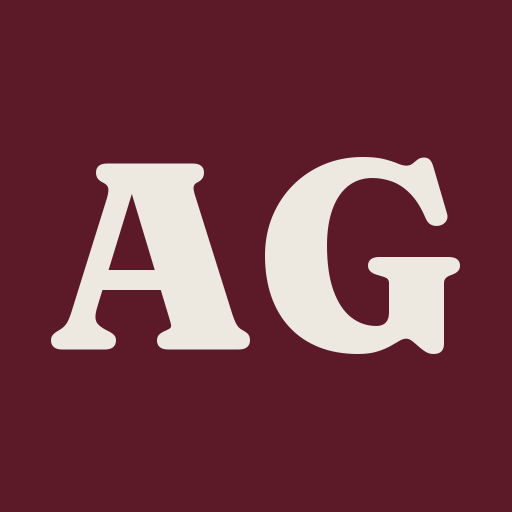
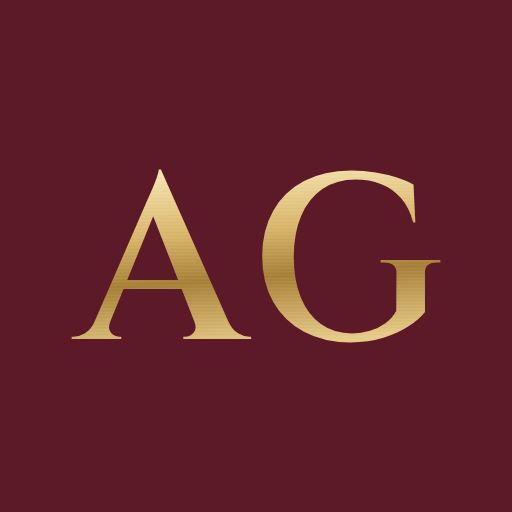
Oro cepillado y AG dorado en toda la web (Almudena, 14/10/2026)
Botones de la calculadora, página de enlaces y teleprompter en oro cepillado
en vez de amarillo flúor; el sello AG pasa a AG dorado en Cinzel sobre el
fondo (oro viejo sobre la cabecera clara de la calculadora); favicon e
iconos con sello burdeos y AG dorado; imagen de enlace nueva con el AG
dorado e «IA para empresas».

Claude-Session: https://claude.ai/code/session_017DikgApCRu2u791NJq6ev1

Changed region(s): [[0.5, 0.2812, 0.9062, 0.7188], [0.0938, 0.3125, 0.5, 0.6875]]

diff --git a/enlaces/index.html b/enlaces/index.html
@@ -23,7 +23,9 @@
   @font-face { font-family: 'Work Sans'; src: url('../fuentes/WorkSans.ttf') format('truetype'); font-weight: 100 900; font-display: swap; }
   @font-face { font-family: 'IBM Plex Mono'; src: url('../fuentes/IBMPlexMono-Medium.ttf') format('truetype'); font-weight: 500; font-display: swap; }
   :root { --burdeos: #5C1A28; --rosa: #D9A9B0; --oliva: #565C34; --tinta: #141210; --hueso: #EDE9E0; --papel: #F6F3EC; --texto2: #4A453D; --gris: #6E675C;
-          --linea: rgba(20, 18, 16, 0.14); --amarillo: #F5FF00; }
+          --linea: rgba(20, 18, 16, 0.14); 
+          --oro: #C9A253; --oro-claro: #D8B568;
+    --oro-cepillado: repeating-linear-gradient(0deg, rgba(255,255,255,.07) 0 1px, transparent 1px 2px, rgba(70,45,10,.05) 2px 3px), linear-gradient(115deg, #A47C35 0%, #C9A458 22%, #E6CC8C 42%, #F1DFAA 50%, #D9B871 64%, #B48D42 84%, #CFAF68 100%); }
   * { box-sizing: border-box; }
   body { margin: 0; background: var(--hueso); color: var(--tinta); font: 16px/1.5 'Work Sans', system-ui, sans-serif; }
   a { color: inherit; text-decoration: none; }
@@ -38,8 +40,8 @@
   .grupo { display: grid; gap: 12px; margin-bottom: 28px; }
   .grupo > .label { color: var(--gris); margin-bottom: 2px; }
   .btn { display: flex; align-items: center; justify-content: center; min-height: 56px; padding: 0 18px; border-radius: 2px; font: 500 13px/1.2 'IBM Plex Mono', monospace; letter-spacing: 0.08em; text-transform: uppercase; text-align: center; }
-  .btn-calc { background: var(--amarillo); color: var(--tinta); border: 1.5px solid var(--tinta); box-shadow: 4px 4px 0 var(--tinta); font-weight: 600; }
-  .btn-calc:hover { background: #FBFF66; }
+  .btn-calc { background: var(--oro-cepillado); color: var(--tinta); border: 1px solid #7E5F25; box-shadow: 0 1px 0 rgba(255,255,255,.35) inset, 0 6px 18px rgba(0,0,0,.28); font-weight: 600; }
+  .btn-calc:hover { filter: brightness(1.06); }
   .btn-burdeos { background: var(--burdeos); color: var(--hueso); }
   .nota { font: 500 10.5px 'IBM Plex Mono', monospace; letter-spacing: 0.1em; text-transform: uppercase; color: var(--gris); text-align: center; }
   .ficha { display: grid; grid-template-columns: 40px 1fr auto; gap: 14px; align-items: center; background: #fff; border: 1px solid var(--linea); border-radius: 2px; padding: 12px 16px; transition: border-color .15s; }
@@ -54,14 +56,14 @@
 
   body { background: var(--burdeos); color: var(--hueso); }
   main { padding: 28px 0 32px; max-width: 480px; position: relative; overflow: hidden; }
-  main:before { content: "AG"; position: absolute; right: -40px; top: 60px; font: 600 420px/1 'Fraunces', serif; color: rgba(237,233,224,.07); pointer-events: none; }
-  .cab { position: relative; background: var(--tinta); border-bottom: 4px solid var(--amarillo); }
+  main:before { content: ""; position: absolute; right: -60px; top: 80px; width: 640px; height: 305px; background: url('/img/ag-oro.svg') no-repeat center / contain; opacity: .08; pointer-events: none; }
+  .cab { position: relative; background: var(--tinta); border-bottom: 4px solid var(--oro); }
   .marco { position: relative; max-width: 640px; height: 470px; margin: 0 auto; overflow: hidden; }
   .cab img { position: absolute; inset: 0; width: 100%; height: 100%; border-radius: 0; border: 0; box-shadow: none; object-fit: cover; object-position: 60% 15%; margin: 0; }
   .marco:after { content: ""; position: absolute; inset: 0; background: linear-gradient(180deg, rgba(20,18,16,0) 40%, rgba(20,18,16,.92) 85%); }
   .cab .txt { position: absolute; left: 20px; right: 20px; bottom: 24px; z-index: 2; max-width: 448px; }
   .cab h1 { font-size: 46px; line-height: .95; margin-bottom: 16px; color: var(--hueso); }
-  .cab .label { display: inline-block; background: var(--amarillo); color: var(--tinta); padding: 7px 12px; transform: rotate(-2deg); }
+  .cab .label { display: inline-block; background: var(--oro-cepillado); color: var(--tinta); padding: 7px 12px; transform: rotate(-2deg); }
   @media (min-width: 641px) {
     .marco { height: 560px; }
     .cab img { -webkit-mask-image: linear-gradient(90deg, transparent, #000 22%, #000 78%, transparent); mask-image: linear-gradient(90deg, transparent, #000 22%, #000 78%, transparent); }
@@ -71,14 +73,14 @@
   .btn-linea:hover { background: rgba(237,233,224,.08); }
   .cab p.sub { color: #E6DFD3; margin-top: 14px; }
   .grupo { padding: 0 16px; position: relative; }
-  .grupo > .label { color: var(--amarillo); }
+  .grupo > .label { color: var(--oro-claro); }
   .nota { color: var(--rosa); }
   .btn-burdeos { background: var(--hueso); color: var(--burdeos); font-weight: 600; }
   .ficha { background: rgba(237,233,224,.08); border-color: rgba(237,233,224,.22); color: var(--hueso); }
-  .ficha:hover { border-color: var(--amarillo); }
+  .ficha:hover { border-color: var(--oro); }
   .ficha small { color: #CFC0C3; }
-  .ico { background: var(--amarillo); color: var(--tinta); }
-  .ir { color: var(--amarillo); }
+  .ico { background: var(--oro-cepillado); color: var(--tinta); }
+  .ir { color: var(--oro-claro); }
   footer { margin: 0 16px; color: #CFC0C3; border-color: rgba(237,233,224,.22); position: relative; }
 </style>
 </head>

diff --git a/grabar/index.html b/grabar/index.html
@@ -12,7 +12,7 @@
    Pega el texto, graba con la cámara del móvil mientras el texto sube, y guarda el vídeo en el carrete. Nada sale del móvil. */
 @font-face{font-family:"Work Sans";src:url(/fuentes/WorkSans.ttf);font-weight:100 900}
 @font-face{font-family:"Fraunces";src:url(/fuentes/Fraunces.ttf);font-weight:100 900}
-:root{--tinta:#141210;--hueso:#EDE9E0;--burdeos:#5C1A28;--amarillo:#F5FF00;--gris:#8a857c}
+:root{--tinta:#141210;--hueso:#EDE9E0;--burdeos:#5C1A28;--oro:#D8B568;--gris:#8a857c}
 *{box-sizing:border-box;-webkit-tap-highlight-color:transparent}
 html,body{margin:0;height:100%;background:var(--tinta);color:var(--hueso);font-family:"Work Sans",system-ui,sans-serif}
 button{font:inherit;cursor:pointer;border:0;border-radius:999px;padding:12px 18px;font-weight:600}
@@ -24,12 +24,12 @@ h1{font-family:"Fraunces",serif;font-weight:600;font-size:28px;margin:8px 0 4px}
 textarea{width:100%;min-height:44vh;border-radius:12px;border:1px solid #3a3530;background:#1d1a17;color:var(--hueso);padding:14px;font:17px/1.5 "Work Sans",sans-serif;resize:vertical}
 .fila{display:flex;gap:12px;align-items:center;flex-wrap:wrap;margin:14px 0}
 .fila label{font-size:14px;color:var(--gris);display:flex;align-items:center;gap:8px;flex:1;min-width:140px}
-.fila input[type=range]{flex:1;min-width:0;accent-color:var(--amarillo)}
+.fila input[type=range]{flex:1;min-width:0;accent-color:var(--oro)}
 @media(max-width:520px){.fila label{flex-basis:100%}}
 .seg{display:flex;background:#1d1a17;border-radius:999px;padding:3px;border:1px solid #3a3530}
 .seg button{background:transparent;color:var(--hueso);padding:8px 14px;font-weight:500}
 .seg button.on{background:var(--hueso);color:var(--tinta)}
-.prim{background:var(--amarillo);color:var(--tinta);width:100%;font-size:18px;padding:16px}
+.prim{background:var(--oro);color:var(--tinta);width:100%;font-size:18px;padding:16px}
 .sec{background:transparent;color:var(--hueso);border:1px solid #4a443d}
 .nota{font-size:13px;color:var(--gris);line-height:1.5}
 /* Teleprompter */
@@ -41,11 +41,11 @@ textarea{width:100%;min-height:44vh;border-radius:12px;border:1px solid #3a3530;
   -webkit-mask-image:linear-gradient(#000 82%,transparent);mask-image:linear-gradient(#000 82%,transparent)}
 #rodillo{font-weight:600;line-height:1.3;color:#fff;will-change:transform}
 #rodillo p{margin:0 0 .8em}
-#rodillo .fin{color:var(--amarillo);font-size:.6em;padding-bottom:60vh}
+#rodillo .fin{color:var(--oro);font-size:.6em;padding-bottom:60vh}
 #guia{position:absolute;left:0;right:0;top:calc(env(safe-area-inset-top) + 18px);height:0;border-top:2px solid rgba(245,255,0,.0)}
 #estado{position:absolute;top:calc(env(safe-area-inset-top) + 6px);right:10px;font-size:12px;padding:4px 10px;border-radius:999px;background:rgba(0,0,0,.55);color:#fff;z-index:3}
 #estado.rec{background:#c81e1e}
-#cuenta{position:absolute;inset:0;display:flex;align-items:center;justify-content:center;font:700 120px "Fraunces",serif;color:var(--amarillo);z-index:4;pointer-events:none}
+#cuenta{position:absolute;inset:0;display:flex;align-items:center;justify-content:center;font:700 120px "Fraunces",serif;color:var(--oro);z-index:4;pointer-events:none}
 #barra{position:absolute;left:0;right:0;bottom:0;padding:12px 12px calc(env(safe-area-inset-bottom) + 14px);display:flex;gap:8px;align-items:center;justify-content:center;flex-wrap:wrap;background:linear-gradient(transparent,rgba(0,0,0,.7));z-index:3}
 #barra .peq{background:rgba(29,26,23,.85);color:#fff;padding:10px 14px;min-width:46px}
 #rec{width:74px;height:74px;border-radius:50%;padding:0;background:#fff;display:flex;align-items:center;justify-content:center;margin:0 6px}
@@ -55,7 +55,7 @@ textarea{width:100%;min-height:44vh;border-radius:12px;border:1px solid #3a3530;
 #hoja h2{font-family:"Fraunces",serif;margin:0 0 6px;font-size:22px}
 #hoja p{margin:0 0 12px;font-size:14px;color:#4a443d}
 #hoja .fila{margin:8px 0 0}
-#hoja .prim{background:var(--tinta);color:var(--amarillo)}
+#hoja .prim{background:var(--tinta);color:var(--oro)}
 #hoja .sec{color:var(--tinta);border-color:#b9b2a6;flex:1}
 </style>
 </head>

diff --git a/index.html b/index.html
@@ -113,7 +113,8 @@
     --gris: #6E675C;
     --linea: rgba(20, 18, 16, 0.14);
     --linea-osc: rgba(237, 233, 224, 0.14);
-    --amarillo: #F5FF00; /* el de los recuadros de los reels: solo botones de la calculadora (08/10/2026) */
+    --oro: #C9A253; /* oro cepillado: botones de la calculadora y AG (Almudena, 14/10/2026) */ --oro-claro: #D8B568;
+    --oro-cepillado: repeating-linear-gradient(0deg, rgba(255,255,255,.07) 0 1px, transparent 1px 2px, rgba(70,45,10,.05) 2px 3px), linear-gradient(115deg, #A47C35 0%, #C9A458 22%, #E6CC8C 42%, #F1DFAA 50%, #D9B871 64%, #B48D42 84%, #CFAF68 100%);
     --max: 1160px;
   }
   * { box-sizing: border-box; }
@@ -131,6 +132,7 @@
 
   /* Sello */
   .sello { width: 40px; height: 40px; border-radius: 2px; display: inline-flex; align-items: center; justify-content: center; font-family: 'Fraunces', Georgia, serif; font-weight: 600; font-size: 18px; flex-shrink: 0; }
+  .sello-ag { display: block; height: 24px; width: auto; flex-shrink: 0; }
   .sello-claro { background: var(--burdeos); color: var(--hueso); }
   .sello-osc { background: var(--hueso); color: var(--burdeos); }
 
@@ -337,11 +339,11 @@
     .sintomas-movil, .ficha-cuerpo-movil { display: block; }
   }
   /* Rediseño 08/10/2026 (Manual/01, «Rediseño de la web»): tinta enmarca · hueso para leer · blanco para la prueba ·
-     burdeos una sola banda · amarillo solo en los botones de la calculadora, con letras negras y borde y sombra tinta */
-  .btn-calc { background: var(--amarillo); color: var(--tinta); border: 1.5px solid var(--tinta); box-shadow: 4px 4px 0 var(--tinta); font-weight: 600; }
-  .btn-calc:hover { background: #FBFF66; }
-  .nav-calc { background: var(--amarillo); color: var(--tinta) !important; padding: 7px 12px; border-radius: 2px; font-family: 'IBM Plex Mono', monospace; font-weight: 500; font-size: 12px; letter-spacing: 0.08em; text-decoration: none; }
-  .franja-calc { display: none; background: var(--amarillo); text-align: center; padding: 10px 20px; }
+     burdeos una sola banda · oro cepillado solo en los botones de la calculadora, con letras negras (14/10/2026) */
+  .btn-calc { background: var(--oro-cepillado); color: var(--tinta); border: 1px solid #7E5F25; box-shadow: 0 1px 0 rgba(255,255,255,.35) inset, 0 6px 18px rgba(0,0,0,.28); font-weight: 600; }
+  .btn-calc:hover { filter: brightness(1.06); }
+  .nav-calc { background: var(--oro-cepillado); color: var(--tinta) !important; border: 1px solid #7E5F25; padding: 7px 12px; border-radius: 2px; font-family: 'IBM Plex Mono', monospace; font-weight: 500; font-size: 12px; letter-spacing: 0.08em; text-decoration: none; }
+  .franja-calc { display: none; background: var(--oro-cepillado); text-align: center; padding: 10px 20px; }
   .franja-calc a { color: var(--tinta); text-decoration: none; font-family: 'IBM Plex Mono', monospace; font-weight: 500; font-size: 12px; letter-spacing: 0.08em; text-transform: uppercase; }
   .hero-cta { display: grid !important; gap: 18px; justify-items: start; }
   .par { display: grid; gap: 8px; justify-items: start; }
@@ -406,7 +408,7 @@
   <div class="wrap">
     <div class="nav">
       <a class="marca" href="#">
-        <span class="sello sello-osc" aria-hidden="true">AG</span>
+        <img class="sello-ag" src="/img/ag-oro.svg" alt="" aria-hidden="true" width="50" height="24" style="height:24px">
         <span>
           <span class="marca-nombre" style="display:block">Almudena Gázquez</span>
           <span class="label marca-servicio" style="display:block">IA para empresas</span>
@@ -703,7 +705,7 @@
     <div class="pie">
       <div>
         <a class="marca" href="#">
-          <span class="sello sello-osc" aria-hidden="true" style="width:32px;height:32px;font-size:14px">AG</span>
+          <img class="sello-ag" src="/img/ag-oro.svg" alt="" aria-hidden="true" width="38" height="18" style="height:18px">
           <span>Almudena Gázquez · IA para empresas</span>
         </a>
         <p class="pie-lema">Implantación de IA en empresas de 20 a 400 empleados.</p>

diff --git a/calculadora/index.html b/calculadora/index.html
@@ -51,7 +51,9 @@
   @font-face { font-family: 'Work Sans'; src: url('../fuentes/WorkSans.ttf') format('truetype'); font-weight: 100 900; font-display: swap; }
   @font-face { font-family: 'IBM Plex Mono'; src: url('../fuentes/IBMPlexMono-Medium.ttf') format('truetype'); font-weight: 500; font-display: swap; }
   :root { --burdeos: #5C1A28; --rosa: #D9A9B0; --oliva: #565C34; --tinta: #141210; --hueso: #EDE9E0; --papel: #F6F3EC; --texto2: #4A453D; --gris: #6E675C;
-          --linea: rgba(20, 18, 16, 0.14); --linea-osc: rgba(237, 233, 224, 0.14); --amarillo: #F5FF00; }
+          --linea: rgba(20, 18, 16, 0.14); --linea-osc: rgba(237, 233, 224, 0.14); 
+          --oro: #C9A253; --oro-claro: #D8B568;
+    --oro-cepillado: repeating-linear-gradient(0deg, rgba(255,255,255,.07) 0 1px, transparent 1px 2px, rgba(70,45,10,.05) 2px 3px), linear-gradient(115deg, #A47C35 0%, #C9A458 22%, #E6CC8C 42%, #F1DFAA 50%, #D9B871 64%, #B48D42 84%, #CFAF68 100%); }
   * { box-sizing: border-box; }
   body { margin: 0; background: var(--hueso); color: var(--tinta); font: 17px/1.6 'Work Sans', system-ui, sans-serif; }
   img { max-width: 100%; display: block; }
@@ -61,10 +63,10 @@
   .mono { font-family: 'IBM Plex Mono', ui-monospace, monospace; font-weight: 500; }
   .label { font-family: 'IBM Plex Mono', ui-monospace, monospace; font-weight: 500; font-size: 12px; letter-spacing: 0.14em; text-transform: uppercase; }
   h2 { font-weight: 600; font-size: 32px; line-height: 1.2; letter-spacing: -0.01em; }
-  .sello { width: 40px; height: 40px; border-radius: 2px; display: inline-flex; align-items: center; justify-content: center; font: 600 18px 'Fraunces', Georgia, serif; background: var(--burdeos); color: var(--hueso); }
+  .sello-ag { display: block; height: 24px; width: auto; flex-shrink: 0; }
   .btn { display: inline-flex; align-items: center; justify-content: center; min-height: 50px; padding: 0 24px; border-radius: 2px; font: 500 13px/1.2 'IBM Plex Mono', monospace; letter-spacing: 0.08em; text-transform: uppercase; text-decoration: none; text-align: center; }
-  .btn-calc { background: var(--amarillo); color: var(--tinta); border: 1.5px solid var(--tinta); box-shadow: 4px 4px 0 var(--tinta); font-weight: 600; }
-  .btn-calc:hover { background: #FBFF66; }
+  .btn-calc { background: var(--oro-cepillado); color: var(--tinta); border: 1px solid #7E5F25; box-shadow: 0 1px 0 rgba(255,255,255,.35) inset, 0 6px 18px rgba(0,0,0,.28); font-weight: 600; }
+  .btn-calc:hover { filter: brightness(1.06); }
   .btn-claro { background: var(--burdeos); color: var(--hueso); }
   .btn-osc { background: var(--hueso); color: var(--burdeos); }
   .nav { display: flex; align-items: center; justify-content: space-between; gap: 20px; padding: 20px 0; border-bottom: 1px solid var(--linea); }
@@ -157,7 +159,7 @@
 <header>
   <div class="wrap">
     <div class="nav">
-      <a class="marca" href="/"><span class="sello" aria-hidden="true">AG</span><span><b>Almudena Gázquez</b><small>IA para empresas</small></span></a>
+      <a class="marca" href="/"><img class="sello-ag" src="/img/ag-oro-viejo.svg" alt="" aria-hidden="true" width="50" height="24" style="height:24px"><span><b>Almudena Gázquez</b><small>IA para empresas</small></span></a>
       <nav class="links" aria-label="Principal">
         <a href="/#areas">Por áreas</a><a href="/#proceso">Cómo trabajamos</a><a href="/#sobre">Sobre mí</a><a href="/blog/">Blog</a>
         <a class="btn btn-claro" href="https://docs.google.com/forms/d/e/1FAIpQLSd7LJzN3R7xlhTs985ao5KVqieJXNlXOk1srVrcomaGP_C2lA/viewform?usp=pp_url&entry.1998185425=calculadora-cabecera" target="_blank" rel="noopener">Reservar →</a>

diff --git a/blog/index.html b/blog/index.html
@@ -104,7 +104,7 @@ a{color:var(--burdeos)}
 .oscuro{background:var(--tinta);color:var(--hueso)}
 .nav{display:flex;align-items:center;justify-content:space-between;gap:20px;padding:20px 0;border-bottom:1px solid var(--linea-osc)}
 .marca{display:flex;align-items:center;gap:12px;color:var(--hueso);text-decoration:none;font-weight:600}
-.sello{width:36px;height:36px;border-radius:2px;display:inline-flex;align-items:center;justify-content:center;font-family:'Fraunces',Georgia,serif;font-weight:600;font-size:16px;background:var(--hueso);color:var(--burdeos);flex-shrink:0}
+.sello-ag{display:block;height:20px;width:auto;flex-shrink:0}
 .links{display:flex;gap:26px;font-size:15px}
 .links a{color:#CFC8BA;text-decoration:none}.links a:hover,.links a.on{color:var(--hueso)}
 .links a.on{border-bottom:1px solid var(--rosa)}
@@ -159,7 +159,7 @@ footer{border-top:1px solid var(--linea-osc)}
 </head>
 <body>
 <header class="oscuro"><div class="wrap"><div class="nav">
- <a class="marca" href="/"><span class="sello" aria-hidden="true">AG</span><span>Almudena Gázquez</span></a>
+ <a class="marca" href="/"><img class="sello-ag" src="/img/ag-oro.svg" alt="" aria-hidden="true" width="42" height="20" style="height:20px"><span>Almudena Gázquez</span></a>
  <nav class="links" aria-label="Principal"><a href="/#caso">Casos</a><a href="/#proceso">Cómo trabajo</a><a class="on" href="/blog/">Blog</a><a href="/#faq">Preguntas</a></nav>
 </div>
 <div class="hero"><div class="mono">Blog · Inteligencia artificial para empresas de 20 a 400 empleados</div>

diff --git a/blog/cuello-de-botella-en-la-empresa/index.html b/blog/cuello-de-botella-en-la-empresa/index.html
@@ -119,7 +119,7 @@ a{color:var(--burdeos)}
 .oscuro{background:var(--tinta);color:var(--hueso)}
 .nav{display:flex;align-items:center;justify-content:space-between;gap:20px;padding:20px 0;border-bottom:1px solid var(--linea-osc)}
 .marca{display:flex;align-items:center;gap:12px;color:var(--hueso);text-decoration:none;font-weight:600}
-.sello{width:36px;height:36px;border-radius:2px;display:inline-flex;align-items:center;justify-content:center;font-family:'Fraunces',Georgia,serif;font-weight:600;font-size:16px;background:var(--hueso);color:var(--burdeos);flex-shrink:0}
+.sello-ag{display:block;height:20px;width:auto;flex-shrink:0}
 .links{display:flex;gap:26px;font-size:15px}
 .links a{color:#CFC8BA;text-decoration:none}.links a:hover,.links a.on{color:var(--hueso)}
 .links a.on{border-bottom:1px solid var(--rosa)}
@@ -174,7 +174,7 @@ footer{border-top:1px solid var(--linea-osc)}
 </head>
 <body>
 <header class="oscuro"><div class="wrap"><div class="nav">
- <a class="marca" href="/"><span class="sello" aria-hidden="true">AG</span><span>Almudena Gázquez</span></a>
+ <a class="marca" href="/"><img class="sello-ag" src="/img/ag-oro.svg" alt="" aria-hidden="true" width="42" height="20" style="height:20px"><span>Almudena Gázquez</span></a>
  <nav class="links" aria-label="Principal"><a href="/#caso">Casos</a><a href="/#proceso">Cómo trabajo</a><a class="on" href="/blog/">Blog</a><a href="/#faq">Preguntas</a></nav>
 </div>
 <div class="cab"><a class="volver mono" href="/blog/">← Blog</a>

diff --git a/blog/falta-de-comunicacion-entre-departamentos/index.html b/blog/falta-de-comunicacion-entre-departamentos/index.html
@@ -119,7 +119,7 @@ a{color:var(--burdeos)}
 .oscuro{background:var(--tinta);color:var(--hueso)}
 .nav{display:flex;align-items:center;justify-content:space-between;gap:20px;padding:20px 0;border-bottom:1px solid var(--linea-osc)}
 .marca{display:flex;align-items:center;gap:12px;color:var(--hueso);text-decoration:none;font-weight:600}
-.sello{width:36px;height:36px;border-radius:2px;display:inline-flex;align-items:center;justify-content:center;font-family:'Fraunces',Georgia,serif;font-weight:600;font-size:16px;background:var(--hueso);color:var(--burdeos);flex-shrink:0}
+.sello-ag{display:block;height:20px;width:auto;flex-shrink:0}
 .links{display:flex;gap:26px;font-size:15px}
 .links a{color:#CFC8BA;text-decoration:none}.links a:hover,.links a.on{color:var(--hueso)}
 .links a.on{border-bottom:1px solid var(--rosa)}
@@ -174,7 +174,7 @@ footer{border-top:1px solid var(--linea-osc)}
 </head>
 <body>
 <header class="oscuro"><div class="wrap"><div class="nav">
- <a class="marca" href="/"><span class="sello" aria-hidden="true">AG</span><span>Almudena Gázquez</span></a>
+ <a class="marca" href="/"><img class="sello-ag" src="/img/ag-oro.svg" alt="" aria-hidden="true" width="42" height="20" style="height:20px"><span>Almudena Gázquez</span></a>
  <nav class="links" aria-label="Principal"><a href="/#caso">Casos</a><a href="/#proceso">Cómo trabajo</a><a class="on" href="/blog/">Blog</a><a href="/#faq">Preguntas</a></nav>
 </div>
 <div class="cab"><a class="volver mono" href="/blog/">← Blog</a>

diff --git a/blog/gerente-no-puede-delegar/index.html b/blog/gerente-no-puede-delegar/index.html
@@ -119,7 +119,7 @@ a{color:var(--burdeos)}
 .oscuro{background:var(--tinta);color:var(--hueso)}
 .nav{display:flex;align-items:center;justify-content:space-between;gap:20px;padding:20px 0;border-bottom:1px solid var(--linea-osc)}
 .marca{display:flex;align-items:center;gap:12px;color:var(--hueso);text-decoration:none;font-weight:600}
-.sello{width:36px;height:36px;border-radius:2px;display:inline-flex;align-items:center;justify-content:center;font-family:'Fraunces',Georgia,serif;font-weight:600;font-size:16px;background:var(--hueso);color:var(--burdeos);flex-shrink:0}
+.sello-ag{display:block;height:20px;width:auto;flex-shrink:0}
 .links{display:flex;gap:26px;font-size:15px}
 .links a{color:#CFC8BA;text-decoration:none}.links a:hover,.links a.on{color:var(--hueso)}
 .links a.on{border-bottom:1px solid var(--rosa)}
@@ -174,7 +174,7 @@ footer{border-top:1px solid var(--linea-osc)}
 </head>
 <body>
 <header class="oscuro"><div class="wrap"><div class="nav">
- <a class="marca" href="/"><span class="sello" aria-hidden="true">AG</span><span>Almudena Gázquez</span></a>
+ <a class="marca" href="/"><img class="sello-ag" src="/img/ag-oro.svg" alt="" aria-hidden="true" width="42" height="20" style="height:20px"><span>Almudena Gázquez</span></a>
  <nav class="links" aria-label="Principal"><a href="/#caso">Casos</a><a href="/#proceso">Cómo trabajo</a><a class="on" href="/blog/">Blog</a><a href="/#faq">Preguntas</a></nav>
 </div>
 <div class="cab"><a class="volver mono" href="/blog/">← Blog</a>

diff --git a/blog/herramientas-de-ia-que-no-se-usan/index.html b/blog/herramientas-de-ia-que-no-se-usan/index.html
@@ -119,7 +119,7 @@ a{color:var(--burdeos)}
 .oscuro{background:var(--tinta);color:var(--hueso)}
 .nav{display:flex;align-items:center;justify-content:space-between;gap:20px;padding:20px 0;border-bottom:1px solid var(--linea-osc)}
 .marca{display:flex;align-items:center;gap:12px;color:var(--hueso);text-decoration:none;font-weight:600}
-.sello{width:36px;height:36px;border-radius:2px;display:inline-flex;align-items:center;justify-content:center;font-family:'Fraunces',Georgia,serif;font-weight:600;font-size:16px;background:var(--hueso);color:var(--burdeos);flex-shrink:0}
+.sello-ag{display:block;height:20px;width:auto;flex-shrink:0}
 .links{display:flex;gap:26px;font-size:15px}
 .links a{color:#CFC8BA;text-decoration:none}.links a:hover,.links a.on{color:var(--hueso)}
 .links a.on{border-bottom:1px solid var(--rosa)}
@@ -174,7 +174,7 @@ footer{border-top:1px solid var(--linea-osc)}
 </head>
 <body>
 <header class="oscuro"><div class="wrap"><div class="nav">
- <a class="marca" href="/"><span class="sello" aria-hidden="true">AG</span><span>Almudena Gázquez</span></a>
+ <a class="marca" href="/"><img class="sello-ag" src="/img/ag-oro.svg" alt="" aria-hidden="true" width="42" height="20" style="height:20px"><span>Almudena Gázquez</span></a>
  <nav class="links" aria-label="Principal"><a href="/#caso">Casos</a><a href="/#proceso">Cómo trabajo</a><a class="on" href="/blog/">Blog</a><a href="/#faq">Preguntas</a></nav>
 </div>
 <div class="cab"><a class="volver mono" href="/blog/">← Blog</a>

diff --git a/blog/informacion-dispersa-en-la-empresa/index.html b/blog/informacion-dispersa-en-la-empresa/index.html
@@ -119,7 +119,7 @@ a{color:var(--burdeos)}
 .oscuro{background:var(--tinta);color:var(--hueso)}
 .nav{display:flex;align-items:center;justify-content:space-between;gap:20px;padding:20px 0;border-bottom:1px solid var(--linea-osc)}
 .marca{display:flex;align-items:center;gap:12px;color:var(--hueso);text-decoration:none;font-weight:600}
-.sello{width:36px;height:36px;border-radius:2px;display:inline-flex;align-items:center;justify-content:center;font-family:'Fraunces',Georgia,serif;font-weight:600;font-size:16px;background:var(--hueso);color:var(--burdeos);flex-shrink:0}
+.sello-ag{display:block;height:20px;width:auto;flex-shrink:0}
 .links{display:flex;gap:26px;font-size:15px}
 .links a{color:#CFC8BA;text-decoration:none}.links a:hover,.links a.on{color:var(--hueso)}
 .links a.on{border-bottom:1px solid var(--rosa)}
@@ -174,7 +174,7 @@ footer{border-top:1px solid var(--linea-osc)}
 </head>
 <body>
 <header class="oscuro"><div class="wrap"><div class="nav">
- <a class="marca" href="/"><span class="sello" aria-hidden="true">AG</span><span>Almudena Gázquez</span></a>
+ <a class="marca" href="/"><img class="sello-ag" src="/img/ag-oro.svg" alt="" aria-hidden="true" width="42" height="20" style="height:20px"><span>Almudena Gázquez</span></a>
  <nav class="links" aria-label="Principal"><a href="/#caso">Casos</a><a href="/#proceso">Cómo trabajo</a><a class="on" href="/blog/">Blog</a><a href="/#faq">Preguntas</a></nav>
 </div>
 <div class="cab"><a class="volver mono" href="/blog/">← Blog</a>

diff --git a/blog/mi-empresa-depende-de-mi/index.html b/blog/mi-empresa-depende-de-mi/index.html
@@ -119,7 +119,7 @@ a{color:var(--burdeos)}
 .oscuro{background:var(--tinta);color:var(--hueso)}
 .nav{display:flex;align-items:center;justify-content:space-between;gap:20px;padding:20px 0;border-bottom:1px solid var(--linea-osc)}
 .marca{display:flex;align-items:center;gap:12px;color:var(--hueso);text-decoration:none;font-weight:600}
-.sello{width:36px;height:36px;border-radius:2px;display:inline-flex;align-items:center;justify-content:center;font-family:'Fraunces',Georgia,serif;font-weight:600;font-size:16px;background:var(--hueso);color:var(--burdeos);flex-shrink:0}
+.sello-ag{display:block;height:20px;width:auto;flex-shrink:0}
 .links{display:flex;gap:26px;font-size:15px}
 .links a{color:#CFC8BA;text-decoration:none}.links a:hover,.links a.on{color:var(--hueso)}
 .links a.on{border-bottom:1px solid var(--rosa)}
@@ -174,7 +174,7 @@ footer{border-top:1px solid var(--linea-osc)}
 </head>
 <body>
 <header class="oscuro"><div class="wrap"><div class="nav">
- <a class="marca" href="/"><span class="sello" aria-hidden="true">AG</span><span>Almudena Gázquez</span></a>
+ <a class="marca" href="/"><img class="sello-ag" src="/img/ag-oro.svg" alt="" aria-hidden="true" width="42" height="20" style="height:20px"><span>Almudena Gázquez</span></a>
  <nav class="links" aria-label="Principal"><a href="/#caso">Casos</a><a href="/#proceso">Cómo trabajo</a><a class="on" href="/blog/">Blog</a><a href="/#faq">Preguntas</a></nav>
 </div>
 <div class="cab"><a class="volver mono" href="/blog/">← Blog</a>

diff --git a/blog/procesos-manuales-en-la-empresa/index.html b/blog/procesos-manuales-en-la-empresa/index.html
@@ -119,7 +119,7 @@ a{color:var(--burdeos)}
 .oscuro{background:var(--tinta);color:var(--hueso)}
 .nav{display:flex;align-items:center;justify-content:space-between;gap:20px;padding:20px 0;border-bottom:1px solid var(--linea-osc)}
 .marca{display:flex;align-items:center;gap:12px;color:var(--hueso);text-decoration:none;font-weight:600}
-.sello{width:36px;height:36px;border-radius:2px;display:inline-flex;align-items:center;justify-content:center;font-family:'Fraunces',Georgia,serif;font-weight:600;font-size:16px;background:var(--hueso);color:var(--burdeos);flex-shrink:0}
+.sello-ag{display:block;height:20px;width:auto;flex-shrink:0}
 .links{display:flex;gap:26px;font-size:15px}
 .links a{color:#CFC8BA;text-decoration:none}.links a:hover,.links a.on{color:var(--hueso)}
 .links a.on{border-bottom:1px solid var(--rosa)}
@@ -174,7 +174,7 @@ footer{border-top:1px solid var(--linea-osc)}
 </head>
 <body>
 <header class="oscuro"><div class="wrap"><div class="nav">
- <a class="marca" href="/"><span class="sello" aria-hidden="true">AG</span><span>Almudena Gázquez</span></a>
+ <a class="marca" href="/"><img class="sello-ag" src="/img/ag-oro.svg" alt="" aria-hidden="true" width="42" height="20" style="height:20px"><span>Almudena Gázquez</span></a>
  <nav class="links" aria-label="Principal"><a href="/#caso">Casos</a><a href="/#proceso">Cómo trabajo</a><a class="on" href="/blog/">Blog</a><a href="/#faq">Preguntas</a></nav>
 </div>
 <div class="cab"><a class="volver mono" href="/blog/">← Blog</a>
